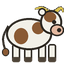
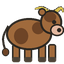
atelier: res_chene (rameau lignifié taper, feuilles lobées à silhouette dessinée + nervures, glands à chapeau strié et reflet), res_encens (brûle-parfom doré à vasque lissée, braises incandescentes, deux volutes de fumée séparées), res_boeufs brun à taches foncées (distinction d'avec le bétail blanc

diff --git a/assets-src/tools/generate.py b/assets-src/tools/generate.py
@@ -2277,18 +2277,19 @@ def res_ble(d):
 
 
 def res_boeufs(db, da=None, w=64, h=64, img=None):
-    """Bœufs : même vocabulaire que le bétail (vache blanche à taches de
-    profil) mais taureau — plus gros, cordré, cornes imposantes."""
-    BLANC, TACHE = "#F2F0E8", "#8A5A34"
+    """Bœufs : même vocabulaire que le bétail (de profil) mais taureau
+    brun — plus gros, cordré, cornes en croissant ; robe brune à taches
+    plus foncées pour le distinguer du bétail blanc."""
+    BRUN, TACHE = "#A06A3C", "#6E4426"
     # pattes épaisses + sabot
     for x in (12, 24, 38, 48):
-        db.rrect((x, 44, x + 8, 62), 2.5, fill=BLANC, outline=INK, width=1.5)
+        db.rrect((x, 44, x + 8, 62), 2.5, fill=BRUN, outline=INK, width=1.5)
         db.rrect((x, 57, x + 8, 62), 2, fill="#4E4438", outline=None)
     # queue avec touffe
     db.smooth_line([(8, 26), (3, 38), (5, 50)], fill=INK, width=2)
     db.ellipse((2, 48, 9, 56), fill=TACHE, outline=INK, width=1.2)
-    # corps massif + taches
-    db.ellipse((6, 18, 52, 50), fill=BLANC, outline=INK, width=2)
+    # corps massif + taches foncées
+    db.ellipse((6, 18, 52, 50), fill=BRUN, outline=INK, width=2)
     db.ellipse((14, 28, 28, 44), fill=TACHE)
     db.ellipse((32, 22, 44, 34), fill=TACHE)
     # cornes en croissant, de part et d'autre du haut du crâne
@@ -2297,13 +2298,13 @@ def res_boeufs(db, da=None, w=64, h=64, img=None):
         db.taper(pts, 6, 1.5, INK)
         db.taper(pts, 4, 0.8, "#D9C04A")
     # tête + museau rose
-    db.ellipse((40, 10, 62, 34), fill=BLANC, outline=INK, width=2)
+    db.ellipse((40, 10, 62, 34), fill=BRUN, outline=INK, width=2)
     db.ellipse((44, 12, 56, 22), fill=TACHE)
     db.ellipse((50, 24, 64, 36), fill="#E3B8A0", outline=INK, width=1.5)
     db.ellipse((57, 28, 61, 32), fill=INK)
     db.ellipse((52, 20, 56, 24), fill=INK)
     # oreille
-    db.ellipse((38, 8, 46, 16), fill=BLANC, outline=INK, width=1.5)
+    db.ellipse((38, 8, 46, 16), fill=BRUN, outline=INK, width=1.5)
     # modelés : dos éclairé, ventre ombré
     if img is not None:
         vgrad(img, (8, 18, 50, 34), (255, 255, 255), 26, 0, steps=12)
@@ -2341,37 +2342,99 @@ def res_caoutchouc(db, da=None, w=64, h=64, img=None):
         vgrad(img, (30, 34, 58, 60), (20, 20, 30), 0, 30, steps=10)
 
 
-def res_charbon(d):
-    """Charbon : tas de houille noire aux facettes grises."""
-    for x, y, s in [(10, 38, 1.0), (32, 42, 0.9), (22, 24, 0.8)]:
-        pts = [(x, y + 14 * s), (x + 6 * s, y), (x + 16 * s, y + 2 * s),
-               (x + 20 * s, y + 12 * s), (x + 10 * s, y + 16 * s)]
-        d.poly(pts, fill="#2E2E34", outline=INK, width=2)
-        d.poly([(x + 6 * s, y), (x + 12 * s, y + 5 * s), (x + 6 * s, y + 9 * s)],
-               fill="#4A4A52")
+def res_charbon(db, da=None, w=64, h=64, img=None):
+    """Charbon : tas de houille aux facettes brillantes — blocs anguleux
+    empilés, éclats métalliques, modelés et ombre portée."""
+    # ombre portée sous le tas
+    db.ellipse((6, 50, 58, 60), fill=(0, 0, 0, 45))
+    # gros bloc central (arêtes vives)
+    bloc1 = [(8, 44), (14, 32), (28, 28), (38, 34), (40, 46), (28, 54), (14, 52)]
+    db.poly(bloc1, fill="#2E2E34", outline=INK, width=2)
+    # bloc de droite, appuyé
+    bloc2 = [(36, 46), (40, 36), (52, 32), (58, 42), (54, 52), (42, 53)]
+    db.poly(bloc2, fill="#26262C", outline=INK, width=2)
+    # bloc du sommet
+    bloc3 = [(20, 30), (30, 22), (40, 26), (38, 35), (26, 37)]
+    db.poly(bloc3, fill="#33333A", outline=INK, width=1.8)
+    # facettes grises (plans réfléchissants)
+    db.poly([(14, 32), (28, 28), (24, 36), (16, 38)], fill="#4A4A52")
+    db.poly([(40, 36), (52, 32), (50, 42), (42, 42)], fill="#3E3E46")
+    db.poly([(30, 22), (40, 26), (34, 30), (27, 28)], fill="#52525A")
+    # éclats brillants
+    db.line([(16, 34), (22, 31)], fill="#8A8A92", width=1.6)
+    db.line([(43, 35), (49, 34)], fill="#7A7A84", width=1.4)
+    db.line([(31, 24), (36, 26)], fill="#9A9AA2", width=1.2)
+    # petits morceaux détachés
+    db.ellipse((10, 52, 16, 57), fill="#2E2E34", outline=INK, width=1.2)
+    db.ellipse((52, 50, 58, 55), fill="#2E2E34", outline=INK, width=1.2)
+    # modelés : lumière haut-gauche du tas
+    if img is not None:
+        vgrad(img, (8, 22, 40, 44), (255, 255, 255), 22, 0, steps=10)
+        radial(img, 18, 32, 10, (255, 255, 255), 26, steps=5)
 
 
-def res_chene(d):
-    """Chêne : branches de feuilles lobées + glands."""
-    for x, y, flip in [(16, 22, 1), (34, 14, 1), (30, 34, -1)]:
-        pts = [(x, y)]
-        for i in range(6):
-            s = 1 if i % 2 == 0 else -1
-            pts.append((x + 5 + i * 4 * flip, y + s * 6))
-        pts.append((x + 28 * flip, y))
-        d.poly(pts, fill=FORET_2, outline="#33582A", width=1.5)
-    for x, y in [(20, 44), (34, 48)]:
-        d.ellipse((x, y, x + 8, y + 12), fill="#B98A4E", outline=INK, width=1.5)
-        d.rrect((x - 1, y - 4, x + 9, y + 2), 2, fill="#6B5230")
+def res_chene(db, da=None, w=64, h=64, img=None):
+    """Chêne : branche lignifiée (taper), feuilles lobées bien marquées
+    (sinus profonds, arêtes vives), glands à chapeau texturé."""
+    # branche principale + rameau (taper fuselé)
+    db.taper([(12, 56), (26, 42), (38, 26), (46, 14)], 4, 1.2, "#6B5230")
+    db.taper([(26, 42), (38, 42), (50, 36)], 3, 0.8, "#6B5230")
+    # feuille de chêne : silhouette lobée dessinée à la main (moitié
+    # supérieure puis miroir), placée avec rotation
+    def feuille(x0, y0, ang, s):
+        ca, sa = math.cos(ang), math.sin(ang)
+        moitie = [(0, 0), (2, -2.5), (1, -4.5), (5, -5.5), (4, -7.5),
+                  (9, -7.5), (9, -9.5), (13.5, -8.5), (16, 0)]
+        pts = moitie + [(px, -py) for px, py in reversed(moitie[1:-1])]
+        pts = [(x0 + (px * ca - py * sa) * s,
+                y0 + (px * sa + py * ca) * s) for px, py in pts]
+        db.poly(pts, fill=FORET_2, outline="#33582A", width=1.5)
+        db.line([(x0, y0), (x0 + 15 * ca * s, y0 + 15 * sa * s)],
+                fill="#2A4A22", width=1.2)
+    feuille(14, 46, math.radians(-38), 1.1)
+    feuille(26, 34, math.radians(-15), 1.0)
+    feuille(34, 26, math.radians(-45), 0.85)
+    # glands : noix ovale + chapeau strié + reflet
+    for x, y in [(16, 48), (32, 46)]:
+        db.ellipse((x, y, x + 8, y + 12), fill="#B98A4E", outline=INK, width=1.4)
+        db.rrect((x - 1, y - 4, x + 9, y + 1), 2.5, fill="#6B5230",
+                 outline=INK, width=1.2)
+        db.line([(x + 2, y - 2.5), (x + 2, y - 0.5)], fill="#8A6A40", width=1)
+        db.line([(x + 5, y - 2.5), (x + 5, y - 0.5)], fill="#8A6A40", width=1)
+        db.ellipse((x + 2, y + 4, x + 4, y + 7), fill="#D9B27A")
+    # modelés : lumière sur le haut du bouquet
+    if img is not None:
+        vgrad(img, (12, 8, 50, 30), (255, 255, 255), 24, 0, steps=10)
+        vgrad(img, (16, 42, 52, 60), (20, 20, 30), 0, 22, steps=8)
 
 
-def res_encens(d):
-    """Encens : brûle-parfum doré + volutes."""
-    d.poly([(22, 56), (42, 56), (38, 46), (26, 46)], fill=BOIS, outline=INK, width=1.5)
-    d.pieslice((16, 30, 48, 50), 180, 360, fill=OR, outline=INK, width=2)
-    d.ellipse((16, 38, 48, 46), fill="#8A641C")
-    for i, (dx, dy) in enumerate([(-6, 0), (2, -4), (8, 2)]):
-        d.arc((30 + dx, 8 + dy, 40 + dx, 22 + dy), 120, 330, fill="#B8B4AC", width=3)
+def res_encens(db, da=None, w=64, h=64, img=None):
+    """Encens : brûle-parfum doré sur pied, braises incandescentes,
+    volutes de fumée lissées. Modelés métalliques."""
+    # volutes de fumée : deux S allongés séparés, montée douce
+    db.smooth_line([(27, 26), (24, 20), (30, 14), (27, 8), (29, 2)],
+                   fill="#B8B4AC", width=2.4)
+    db.smooth_line([(37, 26), (40, 19), (34, 13), (38, 6)],
+                   fill="#A8A4AC", width=2)
+    # pied + coupelle (silhouette lissée)
+    db.smooth_poly([(24, 58), (40, 58), (37, 50), (27, 50)], fill=BOIS)
+    db.smooth_line([(24, 58), (40, 58), (37, 50), (27, 50), (24, 58)],
+                   fill=INK, width=1.5)
+    # vasque dorée : dôme + collerette
+    db.smooth_poly([(16, 44), (18, 34), (26, 28), (38, 28), (46, 34), (48, 44)],
+                   fill=OR)
+    db.smooth_line([(16, 44), (18, 34), (26, 28), (38, 28), (46, 34), (48, 44),
+                    (16, 44)], fill=INK, width=2)
+    db.rrect((14, 42, 50, 48), 3, fill="#8A641C", outline=INK, width=1.5)
+    # braises incandescentes sur le dôme (percées)
+    for x, y, r in ((28, 32, 2.5), (36, 30, 2), (32, 36, 1.6)):
+        db.ellipse((x - r, y - r, x + r, y + r), fill="#E8843C")
+        db.ellipse((x - r * 0.4, y - r * 0.4, x + r * 0.4, y + r * 0.4),
+                   fill="#F7C948")
+    # modelés métalliques : reflet haut-gauche, ombre bas-droite
+    if img is not None:
+        radial(img, 24, 34, 12, (255, 244, 200), 40, steps=7)
+        vgrad(img, (30, 30, 48, 48), (20, 20, 30), 0, 30, steps=10)
 
 
 def res_epices(d):
